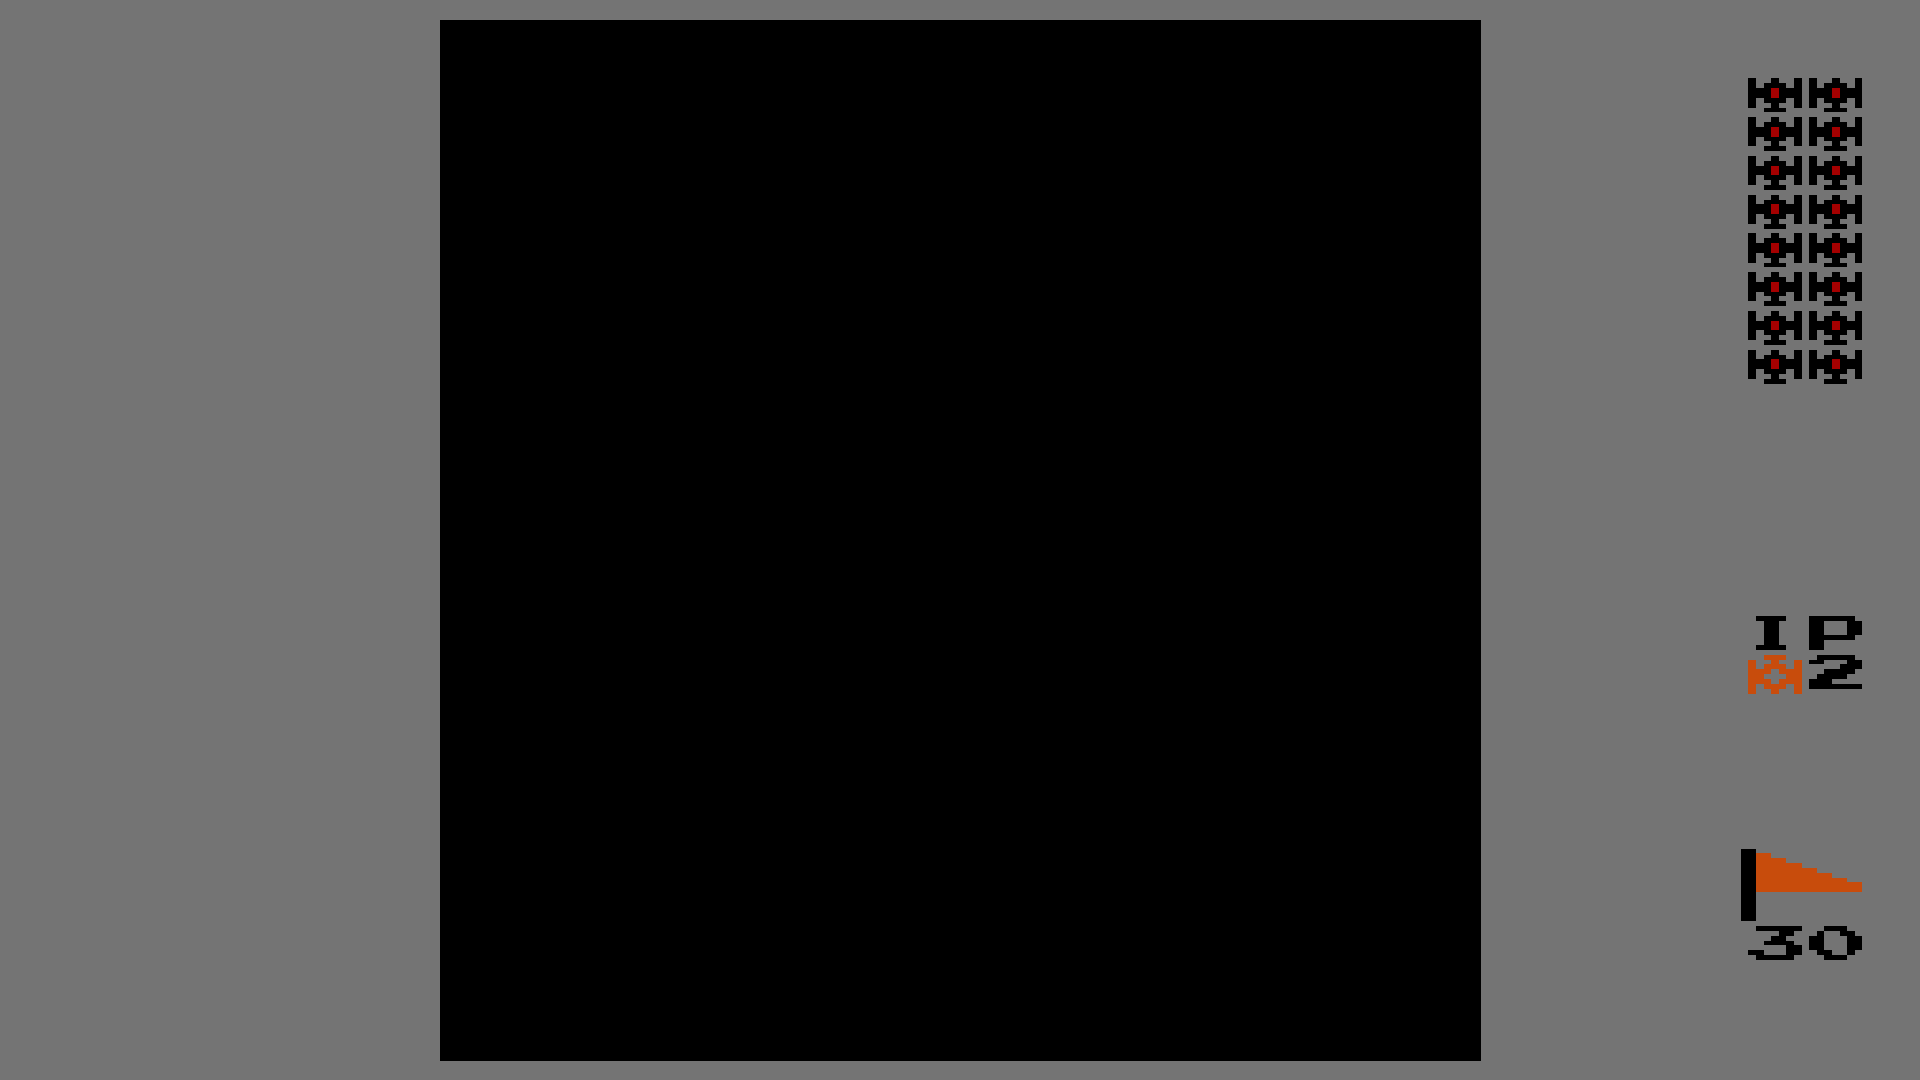
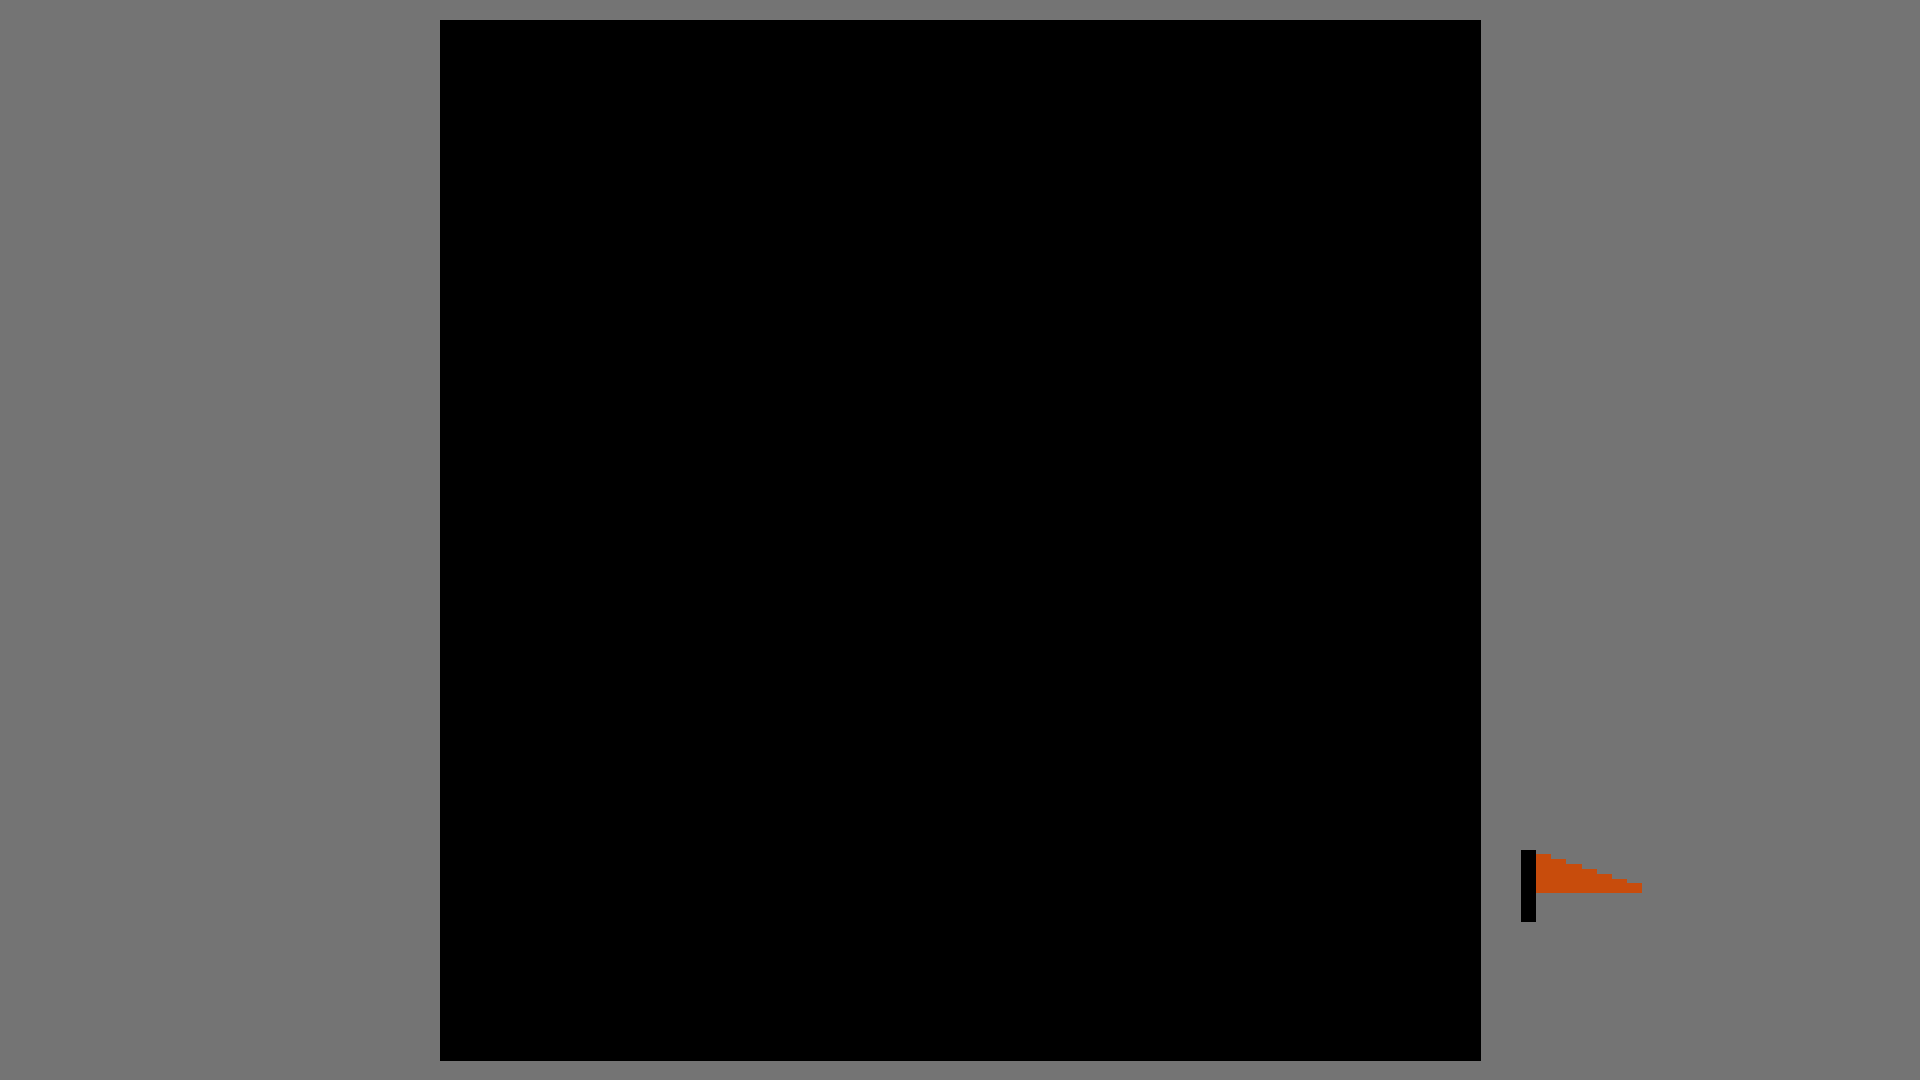
добавлен динамический интерфейс в игре

diff --git a/Engine.cpp b/Engine.cpp
@@ -35,6 +35,88 @@ int printMap(sf::RenderWindow& window, sf::String* level)
 	return 0;
 }
 
+void printInterface(std::vector<Tank>& players, int enemysCount, sf::RenderWindow& window, int level)
+{
+	sf::Image interfaceImage;
+	interfaceImage.loadFromFile("image/interface.png");
+	sf::Texture interface;
+	interface.loadFromImage(interfaceImage);
+	sf::Sprite s_Interface;
+	s_Interface.setTexture(interface);
+
+	for (int i = 0; i < 20/*enemysCount*/; ++i)
+	{
+		s_Interface.setTextureRect(sf::IntRect(0, 0, 40, 40));
+		s_Interface.setPosition( i % 2 * 40 + 1520, i / 2 * 40 + 20);
+		window.draw(s_Interface);
+	}
+
+	for (int i = 0; i < 2/*enemysCount*/; ++i)
+	{
+		if (i == 0)
+		{
+			s_Interface.setTextureRect(sf::IntRect(40, 0, 80, 80));
+			s_Interface.setPosition(i + 1520, i + 540);
+			window.draw(s_Interface);
+			if (/*players[i].health*/false)
+			{
+				s_Interface.setTextureRect(sf::IntRect(80, 80, 40, 40));
+				s_Interface.setPosition(1560, 580);
+				window.draw(s_Interface);
+			}
+			else if (/*players[i].health*/false)
+			{
+				s_Interface.setTextureRect(sf::IntRect(0, 40, 40, 40));
+				s_Interface.setPosition(1560, 580);
+				window.draw(s_Interface);
+			}
+			if (/*players[i].health*/true)
+			{
+				s_Interface.setTextureRect(sf::IntRect(40, 80, 40, 40));
+				s_Interface.setPosition(1560, 580);
+				window.draw(s_Interface);
+			}
+
+		}
+		if (i == 1)
+		{
+			s_Interface.setTextureRect(sf::IntRect(120, 0, 80, 80));
+			s_Interface.setPosition(i + 1520, i * 100 + 540);
+			window.draw(s_Interface);
+			if (/*players[i].health*/false)
+			{
+				s_Interface.setTextureRect(sf::IntRect(80, 80, 40, 40));
+				s_Interface.setPosition(1560, 680);
+				window.draw(s_Interface);
+			}
+			else if (/*players[i].health*/false)
+			{
+				s_Interface.setTextureRect(sf::IntRect(0, 40, 40, 40));
+				s_Interface.setPosition(1560, 680);
+				window.draw(s_Interface);
+			}
+			if (/*players[i].health*/true)
+			{
+				s_Interface.setTextureRect(sf::IntRect(40, 80, 40, 40));
+				s_Interface.setPosition(1560, 680);
+				window.draw(s_Interface);
+			}
+		}
+		if (level == 1)
+			s_Interface.setTextureRect(sf::IntRect(0, 40, 40, 40));
+		if (level == 2)
+			s_Interface.setTextureRect(sf::IntRect(0, 80, 40, 40));
+		if (level == 3)
+			s_Interface.setTextureRect(sf::IntRect(80, 80, 40, 40));
+		if (level == 4)
+			s_Interface.setTextureRect(sf::IntRect(120, 80, 40, 40));
+		if (level == 5)
+			s_Interface.setTextureRect(sf::IntRect(160, 40, 40, 40));
+	}
+	s_Interface.setPosition(1560, 900);
+	window.draw(s_Interface);
+}
+
 void Engine::input()
 {
 	sf::Event event_play;
@@ -143,8 +225,6 @@ void Engine::GameMenu()
 
 void Engine::SingleGame(sf::RenderWindow& window, std::vector<sf::String*>& mapsArr)
 {
-
-
 	float width = sf::VideoMode::getDesktopMode().width;
 	float height = sf::VideoMode::getDesktopMode().height;
 
@@ -204,6 +284,9 @@ void Engine::SingleGame(sf::RenderWindow& window, std::vector<sf::String*>& maps
 		window.clear();
 		
 		window.draw(background);
+
+		std::vector<Tank> pleayers;
+		printInterface(pleayers, /*enemy.size()*/5, window, /*level*/ 1);
 
 		printMap(window, mapsArr[1]);
 
